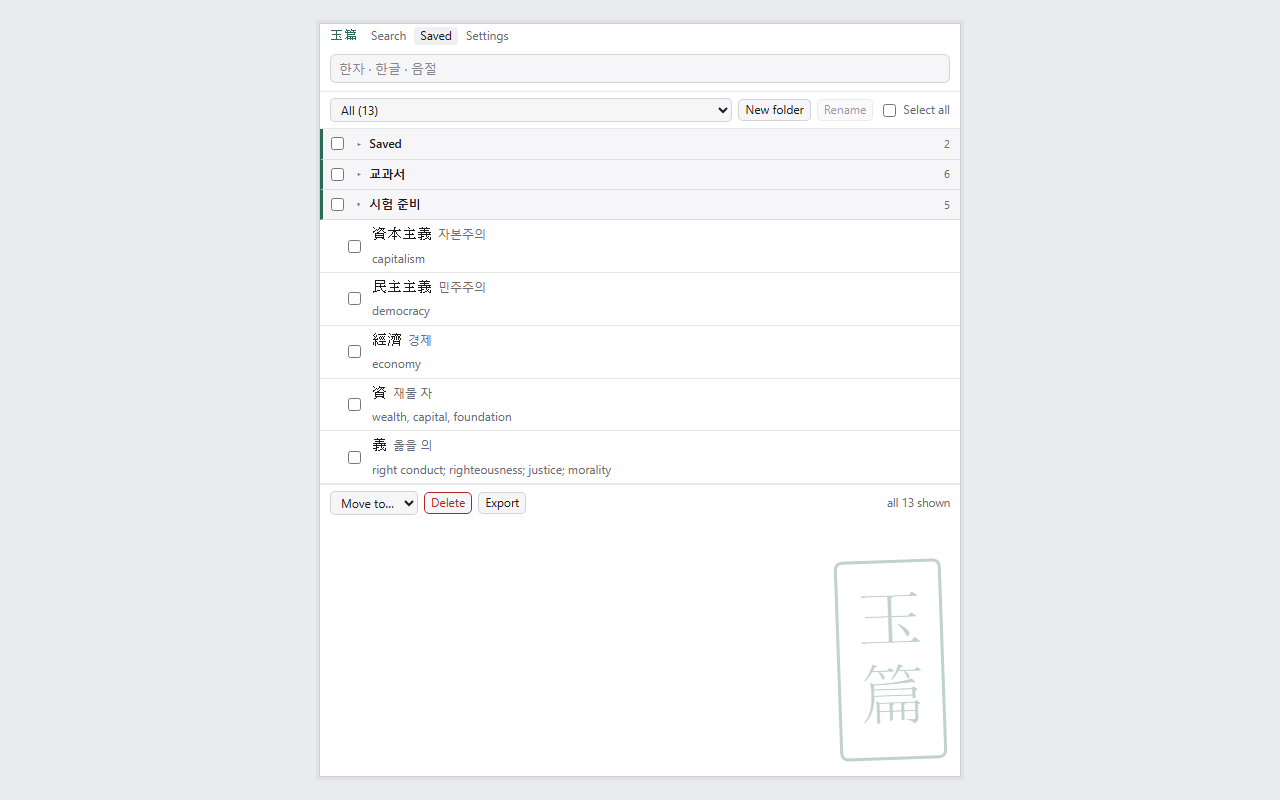
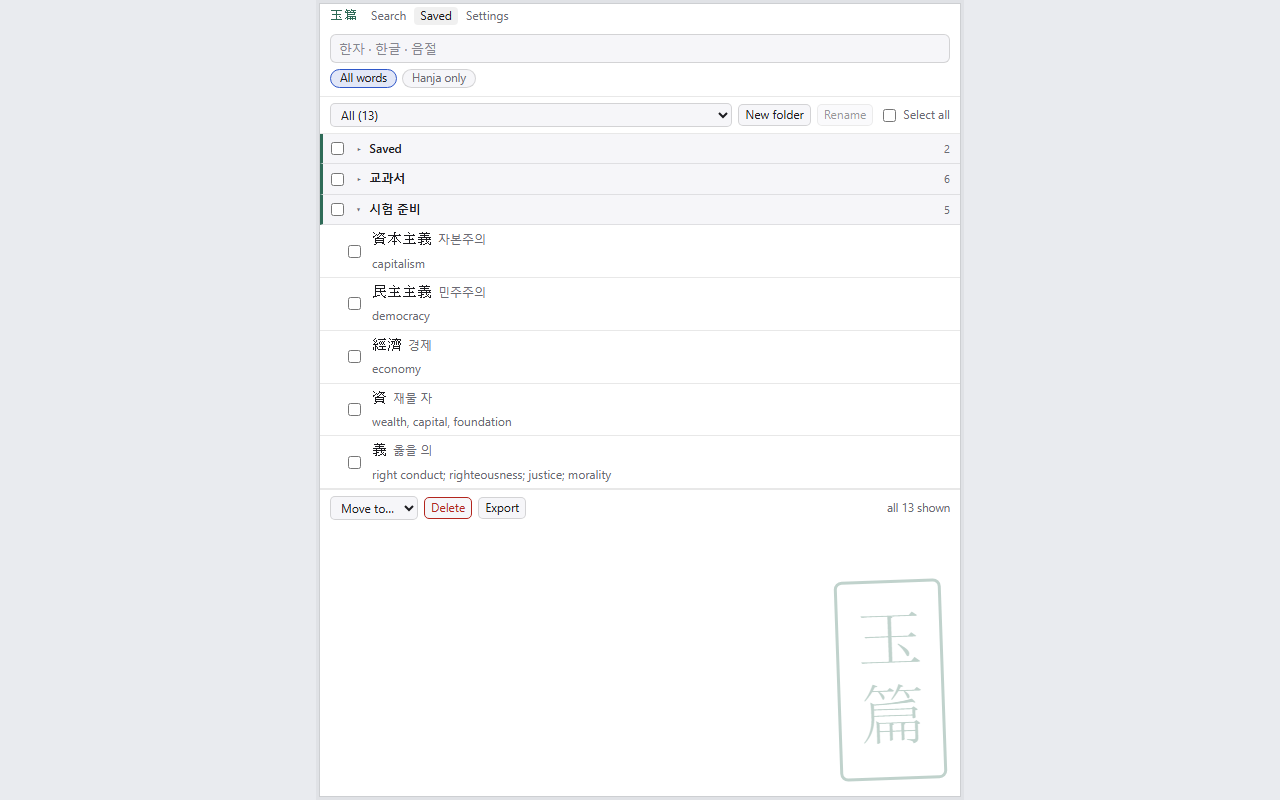
Release 1.5.0
Version 1.5.0. Both store listings drafted for Jesse's edit: native words
no longer optional, conjugated forms, word-level readings, recent
lookups, and turning the popup off on a site; every count re-verified
(all unchanged, plus Japanese readings for 16,969 words and Mandarin for
14,755). Both screenshot sets retaken: every popup now ends in the
per-site footer, so the staged pages are served as saebyeok.example and
choyo.example through a host-resolver mapping (cdp.Chrome gains
extra_args). The Saved shot takes the tallest 1:1 mount, since the scope
pills now show by default; the settings shot keeps its scale and lets
the Sites group fall below the fold.

diff --git a/pipeline/make_screenshots.py b/pipeline/make_screenshots.py
@@ -322,7 +322,11 @@ SHOTS = [
         # 752px solo viewport (254px of room; a sixth row leaves 202 where the
         # rule wants 230), so the expanded folder is the five-row exam one and
         # the other two are collapsed, which is also the honest picture of a
-        # library with three folders in it.
+        # library with three folders in it. 1.5: native words are on by
+        # default, so the scope pills sit under the search box in every view
+        # and take 24px of that room; the mount is the tallest the canvas
+        # holds at 1:1 (SOLO_TALL_H), which gives it back.
+        "solo_h": SOLO_TALL_H,
         "panel": {"view": "saved", "collapse": "Saved,교과서"},
         "checks": [
             panel_has("saved view mounted", ".view--saved"),
@@ -347,7 +351,11 @@ SHOTS = [
         # control) then pushed the about footer to 839px under English and
         # 823px under 한국어, past any 1:1 mount the 800px frame can hold, so
         # this shot alone captures an 880px CSS viewport rasterized to fit
-        # (see SOLO_TALL_H). The footer bound proves the whole view is in it.
+        # (see SOLO_TALL_H). 1.5 added the recent lookups row, the Sites group
+        # and (native words on by default) the scope pills, so the footer now
+        # sits near 1,060px; fitting it would rasterize the text at 73%. The
+        # frame stays at 880 and the view runs past it, Sites below the fold,
+        # the way the sidebar scrolls; the bound now proves Anki export is in.
         "solo_h": 880,
         "checks": [
             panel_has("settings view mounted", ".view--settings"),
@@ -360,8 +368,8 @@ SHOTS = [
             panel_has("search group present", ".settings-group", GROUP_SEARCH),
             panel_has("character cards group present", ".settings-group",
                       GROUP_CHAR_CARDS),
-            ("about footer fully in frame",
-             'document.querySelector(".settings-about")'
+            ("the Anki export group's last row is in frame",
+             'document.querySelector(".settings-row[data-key=\\"anki.charBack\\"]")'
              ".getBoundingClientRect().bottom < 880"),
         ],
     },
@@ -436,13 +444,27 @@ SHOTS = [
 ]
 
 
+# Popup off per site ADDENDUM (2026-10-26): every page popup ends in "Turn
+# off on <host>", so the staged pages are served under made-up names on the
+# reserved .example domain, mapped to the local server, one per masthead
+# (scene 5 is the Japanese paper). The sidebar shots carry no footer and keep
+# the plain address.
+PAGE_HOST = "saebyeok.example"
+SCENE_HOSTS = {"5": "choyo.example"}
+HOST_RULES = "--host-resolver-rules=" + ", ".join(
+    f"MAP {host} 127.0.0.1" for host in sorted({PAGE_HOST, *SCENE_HOSTS.values()}))
+
+
 def stage_url(port, page, params, lang):
     # The staging pages take lang=ko and default to English; the English
     # run's URL is exactly what it always was.
     if lang == "ko":
         params = {**params, "lang": "ko"}
     query = urllib.parse.urlencode(params)
-    return f"http://127.0.0.1:{port}/{STAGE_DIR}/{page}?{query}"
+    host = "127.0.0.1"
+    if page == "shots-page.html":
+        host = SCENE_HOSTS.get(str(params.get("scene")), PAGE_HOST)
+    return f"http://{host}:{port}/{STAGE_DIR}/{page}?{query}"
 
 
 def run_checks(tab, checks, shot_name, lang):
@@ -586,7 +608,7 @@ def main():
 
     server, port = serve_root()
     work_dir = Path(tempfile.mkdtemp(prefix="okp-screenshots-"))
-    chrome = Chrome()
+    chrome = Chrome(extra_args=[HOST_RULES])
     written = []
     try:
         for lang in langs:

diff --git a/pipeline/cdp.py b/pipeline/cdp.py
@@ -165,7 +165,7 @@ class WebSocket:
 class Chrome:
     """One headless Chrome for the whole run, in a throwaway profile."""
 
-    def __init__(self, window=(1280, 800)):
+    def __init__(self, window=(1280, 800), extra_args=()):
         if not Path(CHROME).exists():
             raise SystemExit(f"Chrome not found at {CHROME}")
         with socket.socket() as probe:
@@ -183,6 +183,7 @@ class Chrome:
             f"--window-size={window[0]},{window[1]}",
             f"--remote-debugging-port={self.port}",
             f"--user-data-dir={self.profile}",
+            *extra_args,
             "about:blank",
         ], stdout=subprocess.DEVNULL, stderr=subprocess.DEVNULL)
         try:

diff --git a/store-listing.md b/store-listing.md
@@ -37,7 +37,14 @@ A study tool for Korean learners. Highlight hanja, hanzi, or kanji to read them 
      built data. Two moved, in both listings: native words 15,527 to
      16,607 (native.json headwords, now including 604 place names and
      the mixed-form hybrids) and native Korean definitions 12,071 to
-     13,115 (keys in the Korean natives table). The rest are unchanged. -->
+     13,115 (keys in the Korean natives table). The rest are unchanged.
+     1.5 (2026-10-28): drafted by Claude for Jesse's edit, in both
+     listings. Native words lose "(optional)" (on by default) and gain the
+     conjugated-form sentence; the readings section names word cards; two
+     new sections, recent lookups and turning the popup off on a site.
+     Every WHAT IS INSIDE count re-verified against the built data: all
+     unchanged, plus the new word-level readings (Japanese 16,969 words,
+     Mandarin 14,755). JMdict joins the sources. -->
 
 Okpyeon is a popup hanja dictionary for Korean learners. Much of Korean vocabulary is built from hanja roots the way English words are built from Latin, so once you know that 國 is 나라 국, the shared root in 국민, 국가, and 외국 becomes visible.
 
@@ -64,26 +71,32 @@ Highlight a single syllable like 국 to list every hanja read that way.
 --  EVERY CHARACTER IS GRADED  --
 Middle school and High school mark the roughly 1,800 characters of the Korean Ministry of Education list. Advanced and Rare cover everything else, so a glance tells you whether a character is worth your time.
 
---  NATIVE KOREAN WORDS (OPTIONAL)  --
-One setting adds native words as their own cards and an All words search scope, making Okpyeon a dictionary of all Korean.
+--  NATIVE KOREAN WORDS  --
+Native words get their own cards too, and search gains an All words scope, making Okpyeon a dictionary of all Korean. A conjugated form finds its dictionary form: 먹었어 (ate) opens 먹다 (to eat). One setting turns native words off.
 
 --  JAPANESE AND CHINESE READINGS (OPTIONAL)  --
-Two settings add each character's on'yomi and pinyin beside its Korean reading: 學 is 학 in Korean, ガク in Japanese, xué in Mandarin.
+Two settings add the on'yomi and pinyin beside the Korean reading, on character cards and on word cards: 學 is 학 in Korean, ガク in Japanese, xué in Mandarin, and 學校 (school) is がっこう and xuéxiào.
+
+--  RECENT LOOKUPS  --
+The empty sidebar lists what you looked up last, on a page or in the search box. The list stays on your computer, and one setting turns it off.
+
+--  TURN IT OFF ON A SITE  --
+The line at the bottom of the popup turns it off on that site with one click. The settings list those sites, to turn back on.
 
 --  WHAT IS INSIDE  --
 - 9,415 hanja characters with readings, eumhun, definitions, levels and compounds
 - 27,620 Sino-Korean words indexed by both hanja and hangul
-- 16,607 native Korean words, included when the option is on
+- 16,607 native Korean words
 - Korean definitions for 25,508 Sino-Korean words, 13,115 native words, and 3,983 characters
-- Japanese readings for 3,513 characters and Mandarin readings for 9,195
+- Japanese readings for 3,513 characters and 16,969 words, Mandarin readings for 9,195 characters and 14,755 words
 - 9,130 character decompositions, with the sound-giving part marked on 7,151
 - 3,791 variant mappings covering simplified Chinese and Japanese shinjitai
 
 --  PRIVATE AND OFFLINE  --
-The whole dictionary ships inside the extension. It makes no network requests and collects no data, and saved words stay on your device.
+The whole dictionary ships inside the extension. It makes no network requests and collects no data, and saved words and recent lookups stay on your device.
 
 --  SOURCES  --
-Definitions and compounds: English Wiktionary via kaikki.org (CC BY-SA). Korean definitions: 우리말샘, National Institute of Korean Language (CC BY-SA 2.0 KR), and Korean Wiktionary for characters (CC BY-SA). Variant mappings, Chinese readings, and sound-giving parts: Wiktionary and Unicode Unihan. Japanese readings: the joyo kanji table via Wikipedia (CC BY-SA). Decompositions: BabelStone IDS (public domain). School tiers: the Korean Wikipedia article 대한민국 중고등학교 기초한자 목록 (CC BY-SA 4.0). The Advanced and Rare levels are Okpyeon's own classification.
+Definitions and compounds: English Wiktionary via kaikki.org (CC BY-SA). Korean definitions: 우리말샘, National Institute of Korean Language (CC BY-SA 2.0 KR), and Korean Wiktionary for characters (CC BY-SA). Variant mappings, Chinese readings, and sound-giving parts: Wiktionary and Unicode Unihan. Japanese readings: the joyo kanji table via Wikipedia (CC BY-SA), and for words JMdict (EDRDG, CC BY-SA 4.0). Decompositions: BabelStone IDS (public domain). School tiers: the Korean Wikipedia article 대한민국 중고등학교 기초한자 목록 (CC BY-SA 4.0). The Advanced and Rare levels are Okpyeon's own classification.
 
 Support the project: ko-fi.com/okpyeon
 
@@ -128,11 +141,17 @@ Detailed description:
 --  모든 글자에 등급  --
 중학과 고등은 교육부 기초 한자 1,800자 정도를 표시합니다. 고급과 희귀는 그 밖의 글자로, 한눈에 익힐 만한 글자인지 알 수 있습니다. 고급과 희귀는 옥편 자체 분류입니다.
 
---  고유어 (선택)  --
-설정 하나로 고유어도 카드로 보여 주고, 검색에 전체 단어 범위가 생겨 한국어 전체 사전으로 쓸 수 있습니다.
+--  고유어  --
+고유어도 카드로 보여 주고, 검색에 전체 단어 범위가 생겨 한국어 전체 사전으로 쓸 수 있습니다. 활용된 형태는 기본형을 찾아 줍니다. 먹었어를 드래그하면 먹다가 나옵니다. 설정에서 끌 수 있습니다.
 
 --  일본어와 중국어 읽기 (선택)  --
-설정 둘로 각 글자의 음독과 병음이 한국어 음 옆에 붙습니다. 學은 한국어로 학, 일본어로 ガク, 중국어로 xué입니다.
+설정 둘로 글자 카드와 단어 카드에 음독과 병음이 한국어 음 옆에 붙습니다. 學은 한국어로 학, 일본어로 ガク, 중국어로 xué이고, 學校는 がっこう, xuéxiào입니다.
+
+--  최근 찾아본 항목  --
+검색창이 비어 있으면 사이드바에 최근에 찾아본 항목이 나옵니다. 페이지에서 찾은 것도 검색한 것도 이 컴퓨터에만 저장되며, 설정에서 끌 수 있습니다.
+
+--  사이트별로 끄기  --
+팝업 맨 아래 줄을 누르면 그 사이트에서는 팝업이 뜨지 않습니다. 끈 사이트는 설정에서 다시 켤 수 있습니다.
 
 --  한국어 화면과 뜻풀이  --
 설정 하나로 메뉴, 항목 이름, 뜻풀이가 모두 한국어로 바뀝니다. 뜻풀이는 국립국어원의 개방형 사전 우리말샘에서 가져오며, 카드마다 우리말샘 항목으로 가는 링크가 있습니다. 크롬이 한국어로 설정되어 있으면 처음부터 한국어로 시작합니다.
@@ -140,17 +159,17 @@ Detailed description:
 --  들어 있는 것  --
 - 한자 9,415자의 음, 음훈, 뜻풀이, 등급, 단어
 - 한자어 27,620개, 한자와 한글 양쪽으로 찾기
-- 고유어 16,607개 (선택 사항을 켰을 때)
+- 고유어 16,607개
 - 한자어 25,508개, 고유어 13,115개, 한자 3,983자의 한국어 뜻풀이
-- 일본어 읽기 3,513자, 중국어 읽기 9,195자
+- 일본어 읽기 한자 3,513자와 단어 16,969개, 중국어 읽기 한자 9,195자와 단어 14,755개
 - 한자 짜임 9,130자, 그중 7,151자에 소리 부분 표시
 - 간체와 일본 신자체를 포함한 이체자 대응 3,791개
 
 --  개인 정보와 오프라인  --
-사전 전체가 확장 프로그램 안에 들어 있습니다. 네트워크 요청을 하지 않고, 아무 정보도 수집하지 않으며, 저장한 단어는 기기 안에만 있습니다.
+사전 전체가 확장 프로그램 안에 들어 있습니다. 네트워크 요청을 하지 않고, 아무 정보도 수집하지 않으며, 저장한 단어와 최근 찾아본 항목은 기기 안에만 있습니다.
 
 --  출처  --
-뜻풀이와 단어: 영어 위키낱말사전 (kaikki.org 경유, CC BY-SA). 한국어 뜻풀이: 국립국어원 우리말샘 (CC BY-SA 2.0 KR), 한자는 한국어 위키낱말사전도 참고 (CC BY-SA). 이체자 대응, 중국어 읽기, 소리 부분: 위키낱말사전과 유니코드 Unihan. 일본어 읽기: 위키백과의 상용한자표 (CC BY-SA). 한자 짜임: BabelStone IDS (퍼블릭 도메인). 학교 등급: 한국어 위키백과 대한민국 중고등학교 기초한자 목록 (CC BY-SA 4.0). 고급과 희귀 등급은 옥편 자체 분류입니다.
+뜻풀이와 단어: 영어 위키낱말사전 (kaikki.org 경유, CC BY-SA). 한국어 뜻풀이: 국립국어원 우리말샘 (CC BY-SA 2.0 KR), 한자는 한국어 위키낱말사전도 참고 (CC BY-SA). 이체자 대응, 중국어 읽기, 소리 부분: 위키낱말사전과 유니코드 Unihan. 일본어 읽기: 위키백과의 상용한자표 (CC BY-SA), 단어는 JMdict (EDRDG, CC BY-SA 4.0). 한자 짜임: BabelStone IDS (퍼블릭 도메인). 학교 등급: 한국어 위키백과 대한민국 중고등학교 기초한자 목록 (CC BY-SA 4.0). 고급과 희귀 등급은 옥편 자체 분류입니다.
 
 프로젝트 후원: ko-fi.com/okpyeon
 
@@ -166,7 +185,7 @@ Clicking the toolbar icon opens the extension's dictionary in the side panel: a 
 
 storage justification:
 
-Users can star dictionary entries to save them into folders for later study and export, and adjust a few preferences such as the default folder and the Anki card layout. Saved entries and settings are kept in chrome.storage.local on the user's own device. Nothing is transmitted anywhere.
+Users can star dictionary entries to save them into folders for later study and export, see their recent lookups in the sidebar, turn the popup off on sites they choose, and adjust a few preferences such as the default folder and the Anki card layout. Saved entries, recent lookups and settings are kept in chrome.storage.local on the user's own device. Nothing is transmitted anywhere.
 
 Host permission justification:
 

diff --git a/ROADMAP.md b/ROADMAP.md
@@ -4,7 +4,18 @@ Working list of planned changes. Ordering within a release is not priority
 order. The next store upload ships whatever is merged and verified when the
 current review clears.
 
-## Since 1.4: merged on main, not yet released
+## 1.5: packaged, not yet uploaded
+
+The manifest reads 1.5.0; the packages are okpyeon-1.5.0.zip (Chrome)
+and okpyeon-firefox-1.5.0.zip (Firefox), with the source archive
+okpyeon-source-1.5.0.zip for Mozilla, built 2026-10-28 from the commit
+tagged v1.5.0. Both listings drafted for Jesse's edit (counts
+re-verified, all unchanged, plus the word-level readings), both
+screenshot sets retaken: every popup shot now ends in the per-site
+footer line, the staged pages served as saebyeok.example and
+choyo.example so the line names a plausible site. The privacy policy
+update went live with the push. The store's storage justification
+mentions recent lookups and the site list.
 
 - **Popup off per site, and recent lookups.** Settled by mockups (option A
   for both). The popup ends in one quiet line, "Turn off on <site>"; one
@@ -101,7 +112,7 @@ current review clears.
   toggles and markers as the character line; nested word cards (a
   hybrid's 加工) carry it too.
 
-## 1.4: packaged, not yet uploaded
+## 1.4: submitted to both stores
 
 The manifest reads 1.4.0; the packages are okpyeon-1.4.0.zip (Chrome)
 and okpyeon-firefox-1.4.0.zip (Firefox, its first release), built

diff --git a/README.md b/README.md
@@ -52,9 +52,10 @@ typing `hj` in the address bar searches from anywhere.
   words search scope, making Okpyeon a dictionary of all Korean. A
   conjugated form opens its dictionary form: 먹었어 is a form of 먹다,
   and 할거야 of 하다. One setting turns native words off.
-- **Japanese and Chinese readings (optional).** Two settings add each
-  character's on'yomi and pinyin beside its Korean reading: 學 is 학 in
-  Korean, ガク in Japanese, xué in Mandarin.
+- **Japanese and Chinese readings (optional).** Two settings add the
+  on'yomi and pinyin beside the Korean reading, on character cards and on
+  word cards: 學 is 학 in Korean, ガク in Japanese, xué in Mandarin, and
+  學校 (school) is がっこう and xuéxiào.
 - **Korean language mode.** One setting switches the whole extension
   into Korean: menus, labels, and definitions. The definitions come from
   우리말샘, the open dictionary of the National Institute of Korean

diff --git a/pipeline/README.md b/pipeline/README.md
@@ -869,6 +869,14 @@ installs. The viewport is always set **before** navigation: `content.js` hides
 the popup on resize, so a viewport that changes afterwards captures an empty
 page.
 
+Since 1.5 every page popup ends in a footer line, "Turn off on <host>". So
+the page staging is served under made-up names on the reserved `.example`
+domain, one per masthead: `saebyeok.example` for the Korean paper and
+`choyo.example` for the Japanese one (scene 5). Chrome starts with a
+`--host-resolver-rules` mapping both names to 127.0.0.1, through the
+`extra_args` parameter of `cdp.Chrome`. The side-panel shots carry no footer
+and keep the plain address.
+
 ### What is asserted
 
 Per shot, before the pixels are kept:
